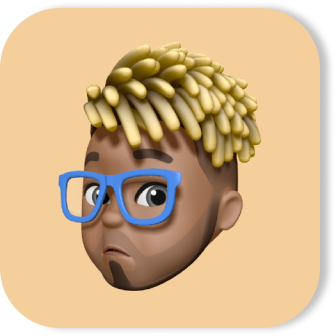
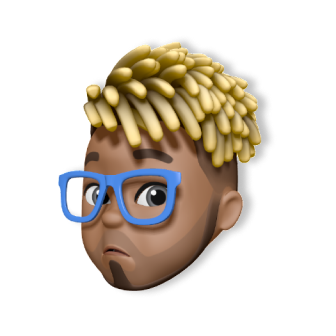
FM-12: replace WelcomeBlock component images, add scroll for more anchor

diff --git a/src/styles/global.scss b/src/styles/global.scss
@@ -1,15 +1,23 @@
 :root {
-    // background colors
+    // main colors
+    --white: white;
+    --black: black;
     --transparent: transparent;
-    --main-background-color: hsl(0, 0%, 97%);
-    --second-background-color: hsl(0, 0%, 98%);
+
+    // background colors
+    --main-background-color: hsl(0, 0%, 15%);
+    --first-background-color: hsla(0, 0%, 20%, 0.7);
+    --second-background-color: hsl(0, 0%, 10%);
+    --third-background-color: hsl(0, 0%, 5%);
+    --fourth-background-color: hsla(0, 0%, 20%, 1);
     --secondary-btn-background-1: hsl(240, 100%, 70%);
 
     // text colors
-    --first-text-color: hsl(0, 0%, 15%);
-    --second-text-color: hsl(0, 0%, 30%);
+    --first-text-color: hsl(0, 0%, 90%);
+    --second-text-color: hsl(0, 0%, 75%);
     --third-text-color: hsl(0, 0%, 50%);
     --fourth-text-color: hsl(0, 0%, 95%);
+    --fifth-text-color: hsl(0, 0%, 30%);
     --spec-1-text-color: hsl(252, 76%, 74%);
     --spec-2-text-color: hsl(20, 56%, 53%);
     --spec-3-text-color: hsl(255, 80%, 57%);
@@ -31,6 +39,7 @@
     --border-dev: 1px solid red;
     --primary-btn-border: 1px solid hsl(0, 0%, 50%);
     --second-btn-border: 1px solid hsl(0, 0%, 80%);
+    --third-btn-border: 1px solid hsl(0, 0%, 20%);
 
     // border radiuses
     --radius-10: 0.625rem;
@@ -38,9 +47,10 @@
     --radius-50: 3.125rem;
 
     // box shadows
-    --first-box-shadow: 0 0 5px 0 hsla(300, 100%, 50%, 0.5);
+    --first-box-shadow: 0px 30px 50px 0px hsla(0, 0%, 50%, 0.1);
     --second-box-shadow: 0 0 30px hsla(0, 0%, 0%, 0.05);
     --third-box-shadow: 0 0 10px 0 hsla(240, 50%, 50%, 0.2);
+    --fourth-box-shadow: 0px 30px 50px 0px hsla(0, 0%, 50%, 0.2);
 }
 
 * {
@@ -52,4 +62,20 @@
 
 body {
     background-color: var(--main-background-color);
+
+    &::-webkit-scrollbar {
+        width: 0.3rem;
+    }
+
+    &::-webkit-scrollbar-track {
+        background-color: var(--second-background-color);
+    }
+
+    &::-webkit-scrollbar-thumb {
+        background-color: var(--third-background-color);
+    }
+
+    a {
+        text-decoration: none;
+    }
 }

diff --git a/src/ui/Button/Button.module.scss b/src/ui/Button/Button.module.scss
@@ -1,4 +1,5 @@
 @use '../../styles/mixins/flex';
+@use '../../styles/mixins/width';
 
 .button {
     @include flex.flexCentralize;
@@ -16,11 +17,20 @@
         width: fit-content;
         padding: 0.5rem 1.5rem;
         color: var(--first-text-color);
+        transition: all 0.3s linear;
 
-        svg {
+        &:hover {
+            box-shadow: var(--fourth-box-shadow);
+
+            & img {
+                transform: translateX(0.3rem);
+            }
+        }
+
+        img {
             margin-top: 0.2rem;
             transition: all 0.1s linear;
-            width: 1.75rem;
+            @include width.ratio(1.75rem);
         }
     }
 
@@ -49,7 +59,6 @@
             weight: bold;
         }
         border: var(--second-btn-border);
-        box-shadow: var(--third-box-shadow);
         padding: 1rem 2rem;
         border-radius: var(--radius-30);
     }

diff --git a/src/components/WelcomeBlock/WelcomeBlock.module.scss b/src/components/WelcomeBlock/WelcomeBlock.module.scss
@@ -1,7 +1,13 @@
+@use '../../styles/mixins/background';
+@use '../../styles/mixins/width';
+
 .welcome-block {
     display: flex;
     align-items: center;
-    gap: 2rem;
+    column-gap: 4rem;
+    row-gap: 0;
+    height: calc(100vh - 4rem);
+    flex-wrap: wrap;
 
     &__title-wrapper {
         flex-basis: 50%;
@@ -15,13 +21,16 @@
         flex-direction: column;
         justify-content: space-between;
         align-items: flex-end;
-        gap: 2.5rem;
+        gap: 5rem;
     }
 
     &__images {
-        flex-basis: 50%;
+        flex-basis: 40%;
         position: relative;
         z-index: 0;
+        background-image: url('../../assets/images/background1.png');
+        @include background.backgroundDefault;
+        @include width.ratio(80%);
 
         svg {
             margin: 0 auto;

diff --git a/src/components/WelcomeBlock/WelcomeBlock.tsx b/src/components/WelcomeBlock/WelcomeBlock.tsx
@@ -1,10 +1,10 @@
 import Image from 'next/image'
 import Button from '../../ui/Button/Button'
 import ArrowRightTwo from '../../assets/images/ArrowRight2.svg'
-import Ellips from '../../assets/images/Ellips.svg'
 import Headings from './components/Headings/Headings'
 import FaceImages from './components/FaceImages/FaceImages'
 import style from './WelcomeBlock.module.scss'
+import ScrollDown from './components/ScrollDown/ScrollDown'
 
 const WelcomeBlock = () => {
     return (
@@ -18,9 +18,9 @@ const WelcomeBlock = () => {
                 </div>
             </div>
             <div className={style['welcome-block__images']}>
-                <Image src={Ellips} alt='' />
                 <FaceImages />
             </div>
+            <ScrollDown />
         </div>
     )
 }

diff --git a/src/ui/FaceImage/FaceImage.module.scss b/src/ui/FaceImage/FaceImage.module.scss
@@ -3,12 +3,21 @@
 
 .face-img {
     @include background.backgroundDefault;
+    background-color: var(--first-background-color);
+    border-radius: var(--radius-30);
+    transition: all 0.2s linear;
+
+    &:hover {
+        background-color: var(--fourth-background-color);
+        transform: scale(1.05);
+    }
 }
 
 .first-img {
     @include width.ratio(150px);
     grid-row: 1 / 2;
     grid-column: 1 / 2;
+    animation: scaling 0.5s linear 0s 1 normal none running;
 }
 
 .second-img {
@@ -31,4 +40,15 @@
     grid-row: 3 / 7;
     grid-column: 2 / 6;
     align-self: center;
+}
+
+@keyframes scaling {
+    0% {
+        opacity: 0;
+        transform: scale(0);
+    }
+    100% {
+        opacity: 1;
+        transform: scale(1);
+    }
 }

diff --git a/src/components/WelcomeBlock/components/ScrollDown/ScrollDown.module.scss b/src/components/WelcomeBlock/components/ScrollDown/ScrollDown.module.scss
@@ -1,0 +1,24 @@
+@use '../../../../styles/mixins/flex';
+@use '../../../../styles/mixins/text';
+@use '../../../../styles/mixins/width';
+
+.welcome-block {
+    &__scroll-down {
+        width: 100%;
+        @include flex.flexCentralize;
+        flex-direction: column;
+
+        & span {
+            @include text.textStyle(
+                var(--fs-16),
+                var(--ff-L),
+                normal,
+                var(--fifth-text-color)
+            );
+        }
+
+        & img {
+            @include width.ratio(2rem);
+        }
+    }
+}

diff --git a/src/components/WelcomeBlock/components/ScrollDown/ScrollDown.tsx b/src/components/WelcomeBlock/components/ScrollDown/ScrollDown.tsx
@@ -1,0 +1,15 @@
+import Image from 'next/image'
+import DoubleArrow from '../../../../assets/images/DoubleArrow.svg'
+import style from './ScrollDown.module.scss'
+import Link from 'next/link'
+
+const ScrollDown = () => {
+    return (
+        <Link href={''} className={style['welcome-block__scroll-down']}>
+            <span>Scroll to see more</span>
+            <Image src={DoubleArrow} alt='' />
+        </Link>
+    )
+}
+
+export default ScrollDown

diff --git a/src/components/StepsBlock/components/GetStarted/GetStarted.module.scss b/src/components/StepsBlock/components/GetStarted/GetStarted.module.scss
@@ -12,20 +12,4 @@
         font-family: var(--ff-L);
         font-size: var(--fs-20);
     }
-
-    & button {
-        transition: all 0.2s linear;
-
-        & img {
-            transition: all 0.2s linear;
-        }
-
-        &:hover {
-            transform: scale(1.03);
-
-            img {
-                transform: translateX(0.5rem);
-            }
-        }
-    }
 }

diff --git a/src/modules/Header/Header.module.scss b/src/modules/Header/Header.module.scss
@@ -6,7 +6,7 @@
     left: 0;
     background-color: var(--main-background-color);
     z-index: 9999;
-    border-bottom: 1px solid hsl(0, 0%, 80%);
+    border-bottom: var(--third-btn-border);
 
     &__content {
         height: inherit;

diff --git a/src/ui/ListItem/ListItem.module.scss b/src/ui/ListItem/ListItem.module.scss
@@ -12,6 +12,7 @@
     & a {
         transition: all 0.1s linear;
         text-decoration: none;
+        color: var(--second-text-color);
 
         &:visited {
             color: var(--second-text-color);

diff --git a/src/components/WelcomeBlock/components/FaceImages/FaceImages.module.scss b/src/components/WelcomeBlock/components/FaceImages/FaceImages.module.scss
@@ -3,7 +3,6 @@
     top: 50%;
     left: 50%;
     transform: translate(-50%, -50%);
-    width: 60%;
     aspect-ratio: 1 / 1;
     display: grid;
     grid-template-columns: repeat(6, 1fr);

diff --git a/src/modules/Footer/Footer.module.scss b/src/modules/Footer/Footer.module.scss
@@ -14,7 +14,7 @@
 
     &__source {
         font-family: var(--ff-L);
-        font-size: var(--fs-20);
+        font-size: var(--fs-18);
         color: var(--second-text-color);
     }
 
